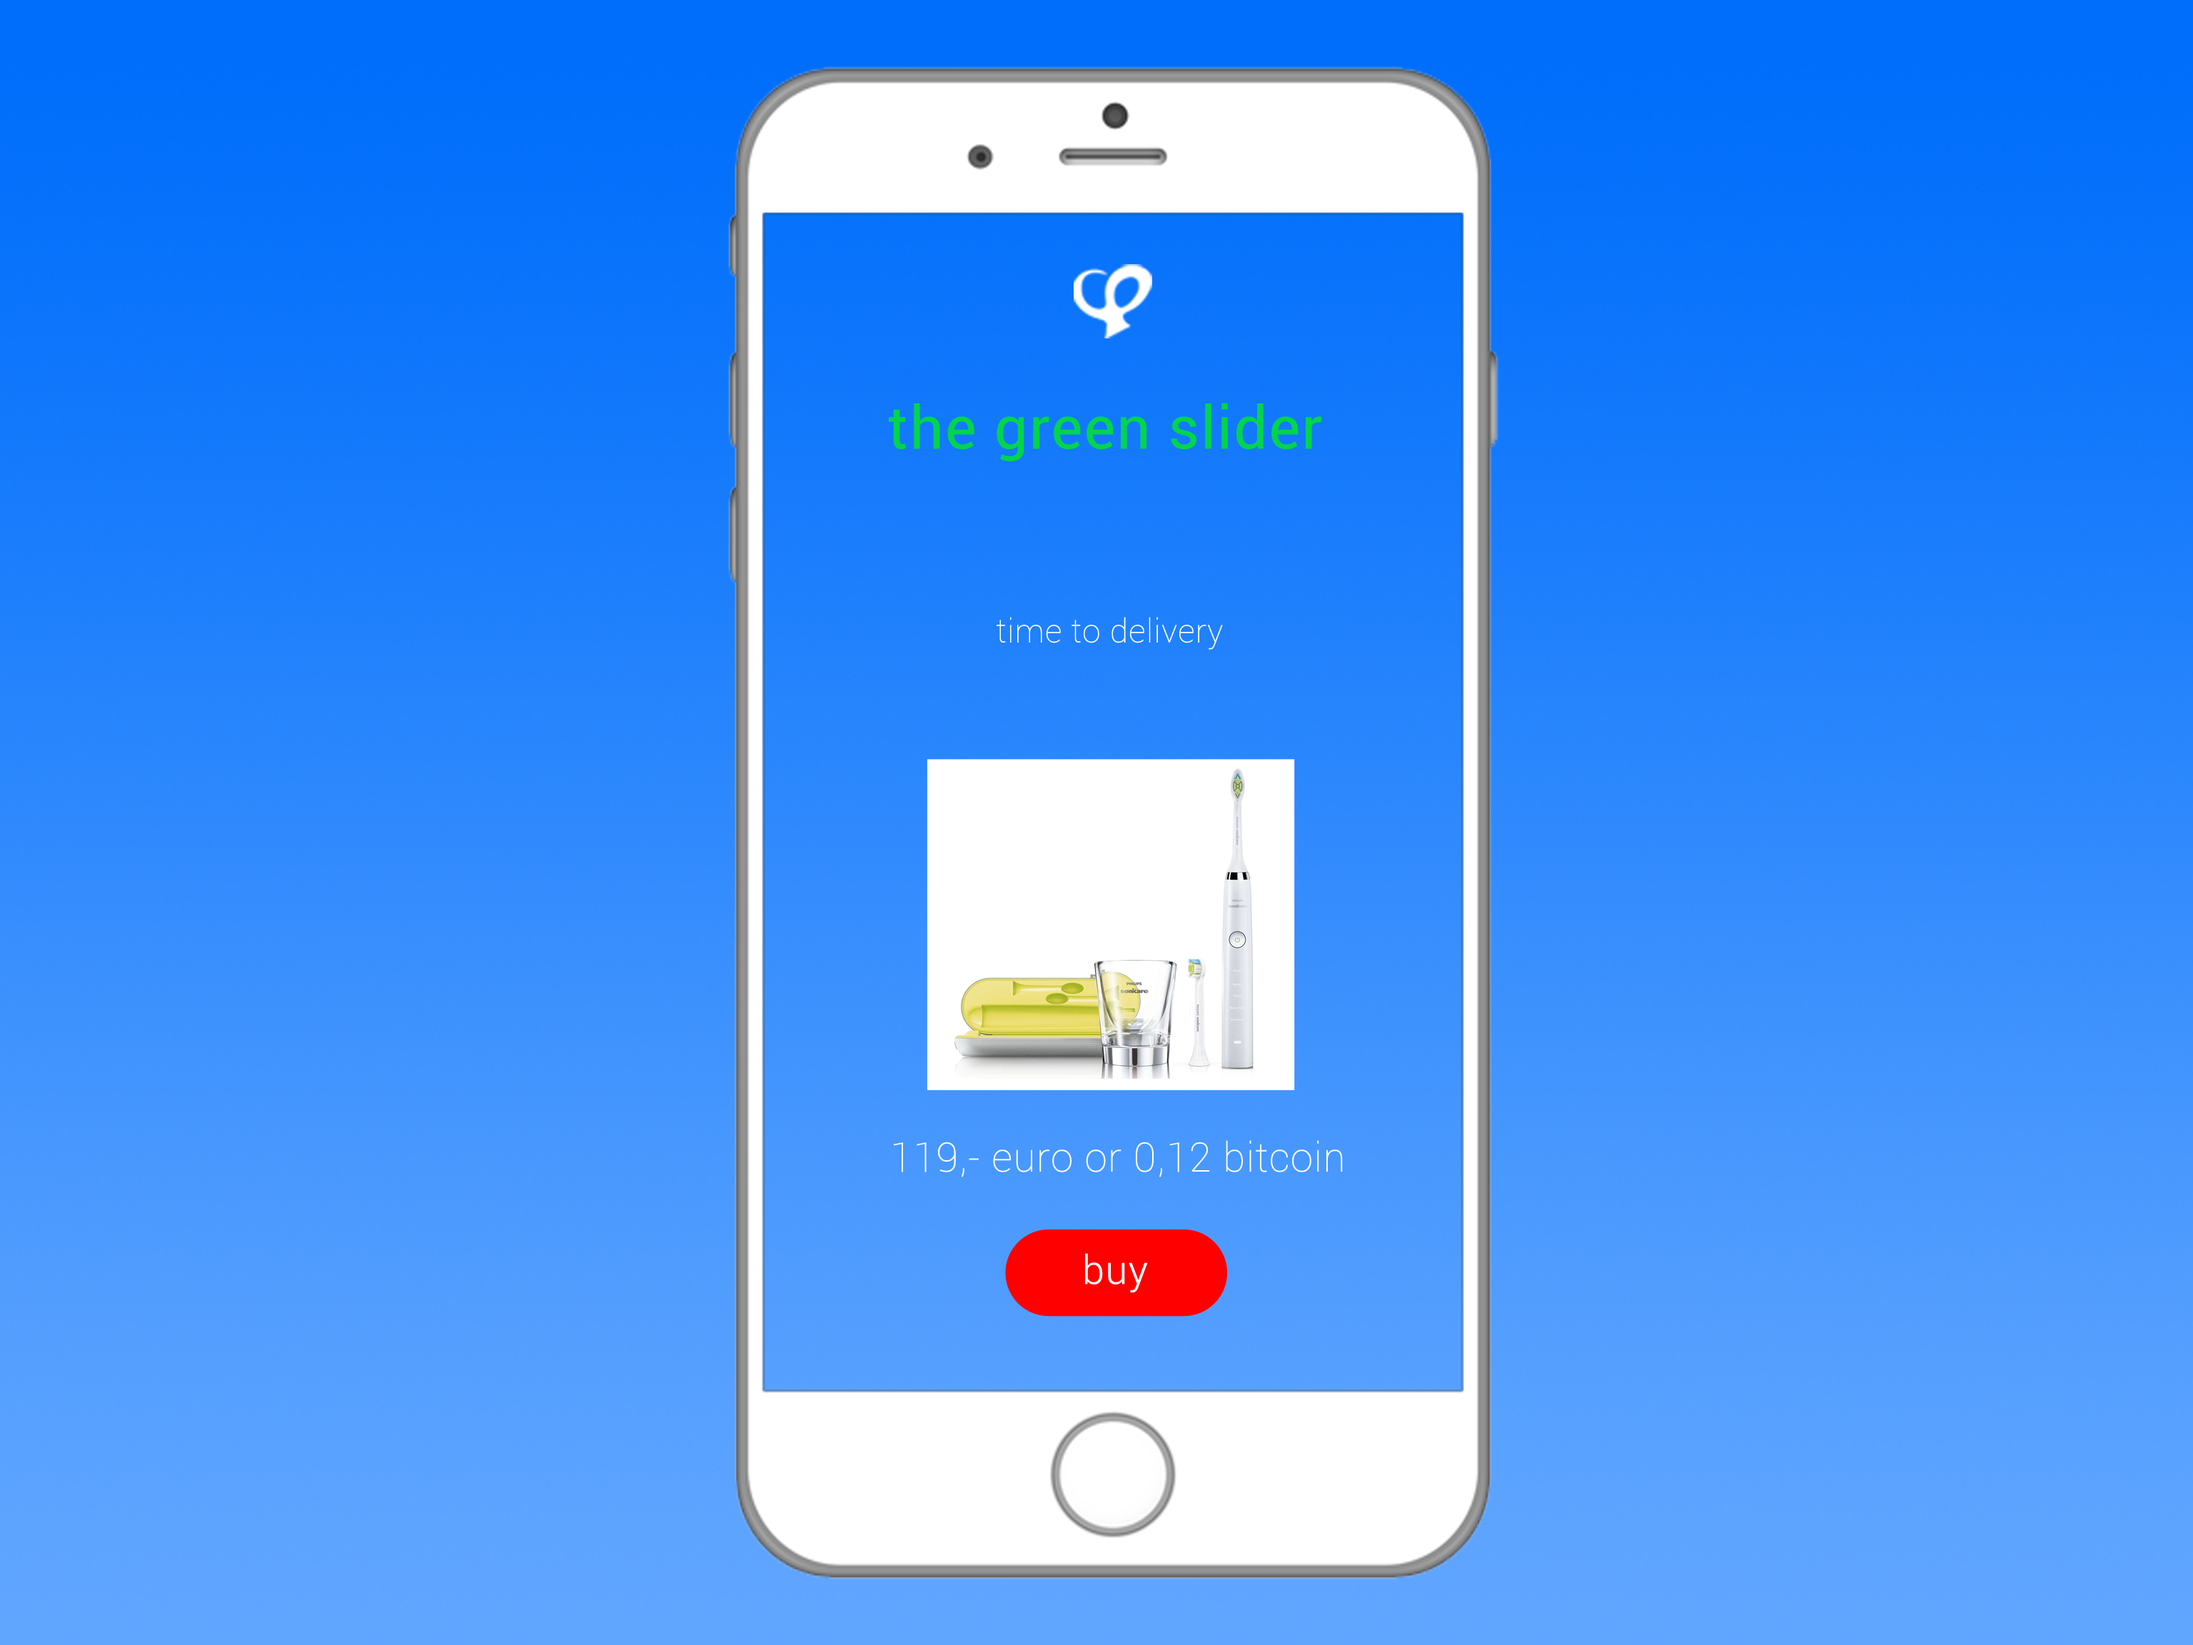
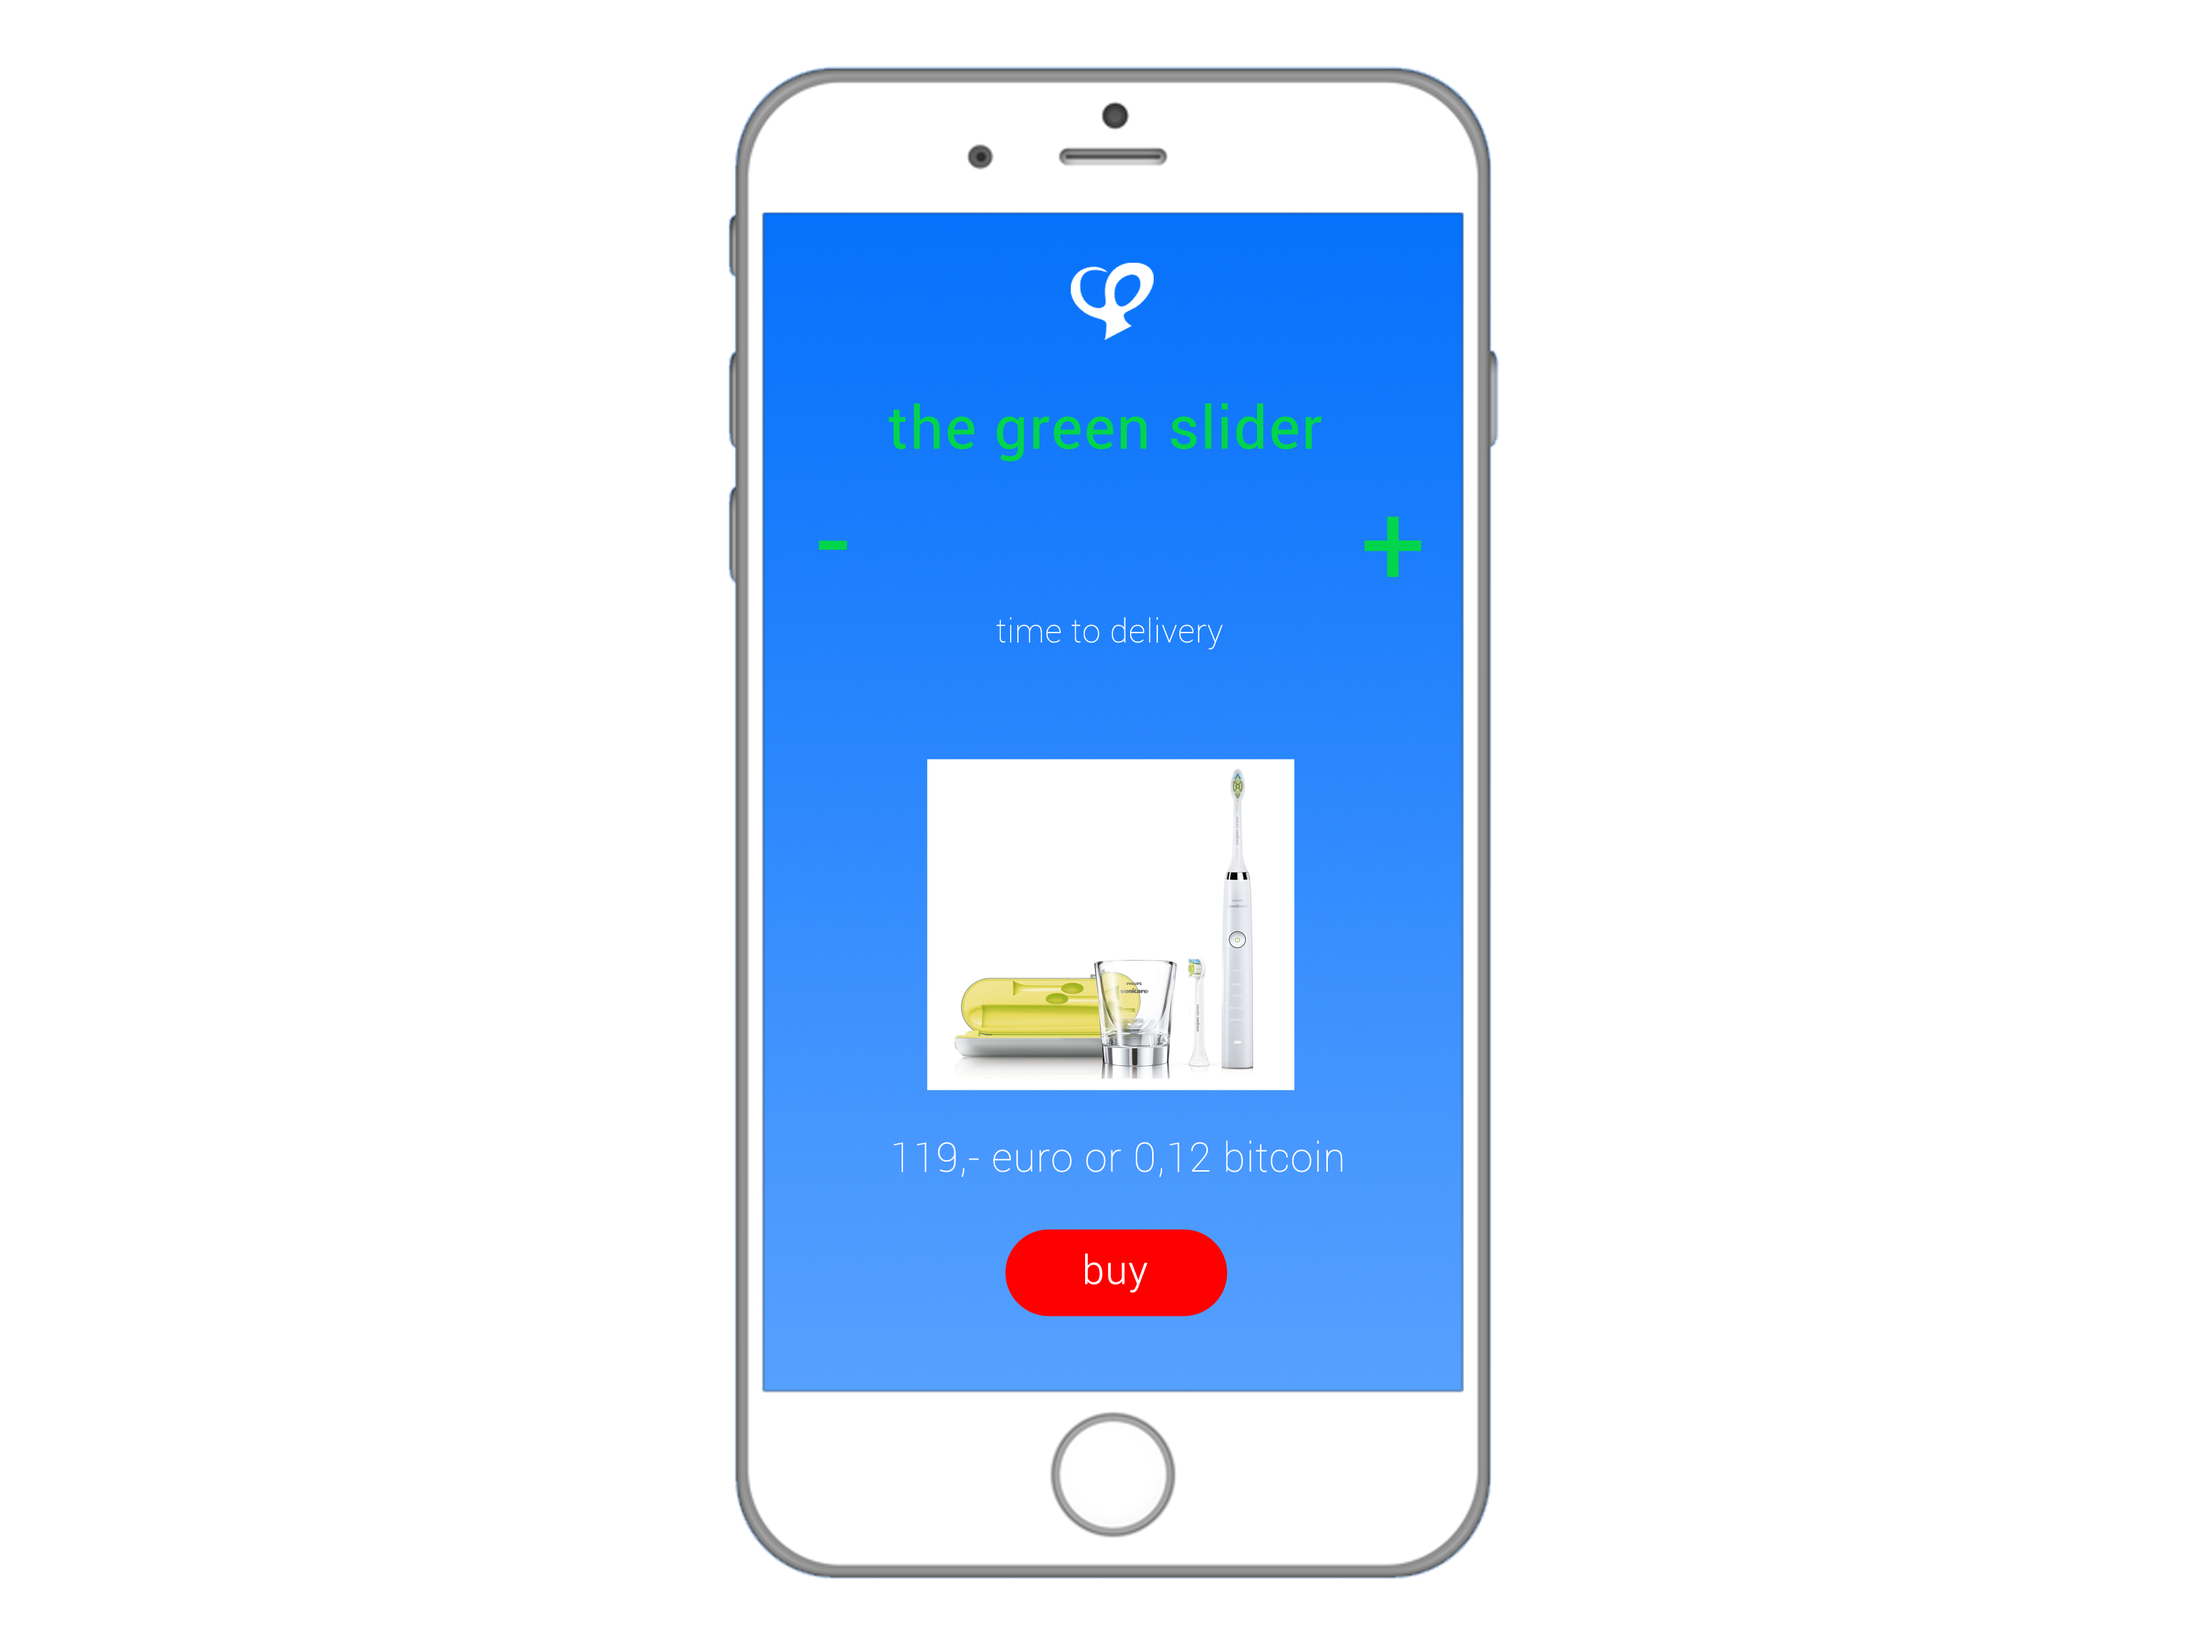
Integrate new delivery selection screen.

diff --git a/local_modules/phi-nomenal-webapp/app/consumer/consumer.css b/local_modules/phi-nomenal-webapp/app/consumer/consumer.css
@@ -13,9 +13,9 @@
 
 #slider {
   position: relative;
-  left: 400px;
-  top: 250px;
-  width: 250px;
+  left: 410px;
+  top: 252px;
+  width: 215px;
 }
 
 #consumer-ui {
